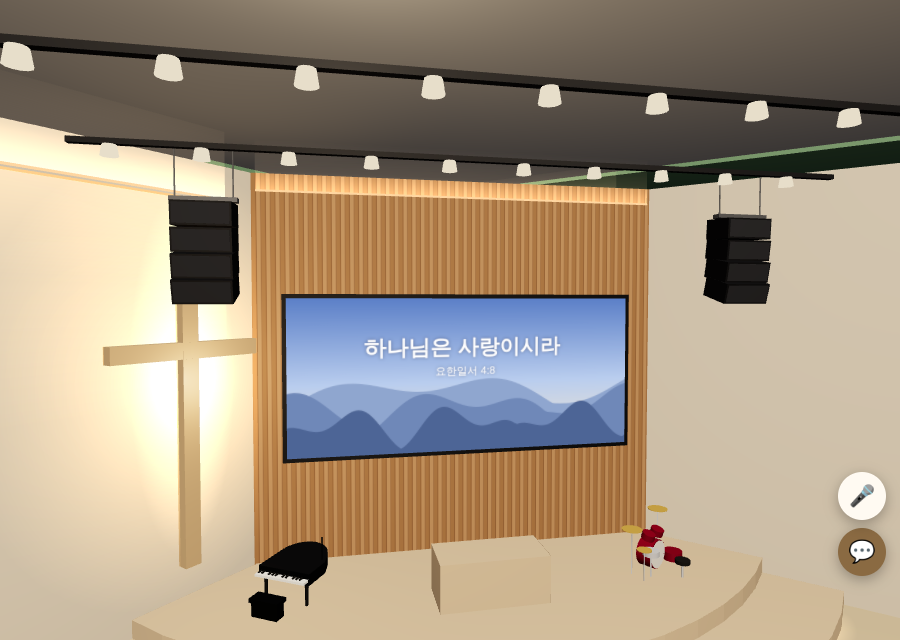
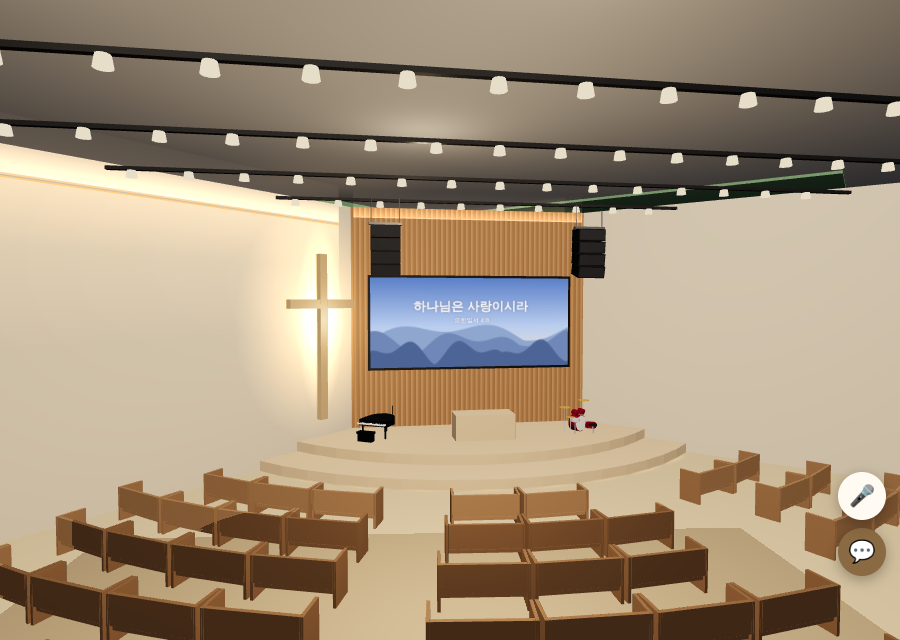
Move B1 speakers so they never block the cross or screen
Claude-Session: https://claude.ai/code/session_01Vz1QJdAp6yikLxGfQj8jmX

diff --git a/index.html b/index.html
@@ -451,7 +451,7 @@
   </div>
 
   <script type="module">
-    import * as THREE from 'three';
+    import * as THREE from 'three'; window.__RC = THREE.Raycaster;
     import {GLTFLoader} from './vendor/three/loaders/GLTFLoader.js';
     import {OrbitControls} from './vendor/three/controls/OrbitControls.js';
 
@@ -1791,8 +1791,8 @@
         {
           const cab = new THREE.MeshStandardMaterial({ color: 0x1d1e22, roughness: 0.6 }), grill = new THREE.MeshStandardMaterial({ color: 0x34363c, roughness: 0.9 });
           const wire = new THREE.MeshStandardMaterial({ color: 0x8a8d93, roughness: 0.4, metalness: 0.6 });
-          const base = { x: -13.03 + 4.9 / Math.SQRT2, z: -17.58 + 4.9 / Math.SQRT2 };   // 무대 모서리에서 대각선 4.9m
-          [-3.3, 3.3].forEach((off) => {
+          const base = { x: -13.03 + 5.3 / Math.SQRT2, z: -17.58 + 5.3 / Math.SQRT2 };   // 무대 모서리에서 대각선 5.3m
+          [-2.3, 2.3].forEach((off) => {   // 십자가(서쪽 벽)·스크린을 어느 자리에서도 가리지 않는 위치 (112석에서 확인)
             const sx = base.x + off * Math.SQRT1_2, sz = base.z - off * Math.SQRT1_2;
             const arr = new THREE.Group(); arr.position.set(sx, CEIL - 0.55, sz); arr.rotation.set(0, Math.PI / 4, 0);
             const bar = new THREE.Mesh(new THREE.BoxGeometry(0.7, 0.05, 0.12), wire); arr.add(bar);   // 매다는 철제 바
@@ -1805,7 +1805,7 @@
               arr.add(box); y -= 0.27 * Math.cos(tilt); tilt += 0.07;   // 아래로 갈수록 더 숙여 J자 모양
             }
             arr.traverse((o) => { if (o.isMesh) { o.castShadow = false; o.userData.noCamBlock = true; } });
-            ceilingRig.add(arr);
+            arr.name = 'B1_SPEAKER'; ceilingRig.add(arr);
           });
         }
         g.add(ceilingRig);

diff --git a/docs/verification/2026-11-05/REPORT.md b/docs/verification/2026-11-05/REPORT.md
@@ -297,3 +297,4 @@
 
 ## 지하 본당 매달린 스피커
 - 무대 앞 양옆 천장에 라인어레이 스피커 4통씩, 회중 쪽으로 숙임 (b1-speakers.png, 오류 없음)
+- 스피커 위치 조정: 112석 × 앉은/선 눈높이에서 십자가 5곳·스크린 15곳으로 광선 검사 → 가림 0건
